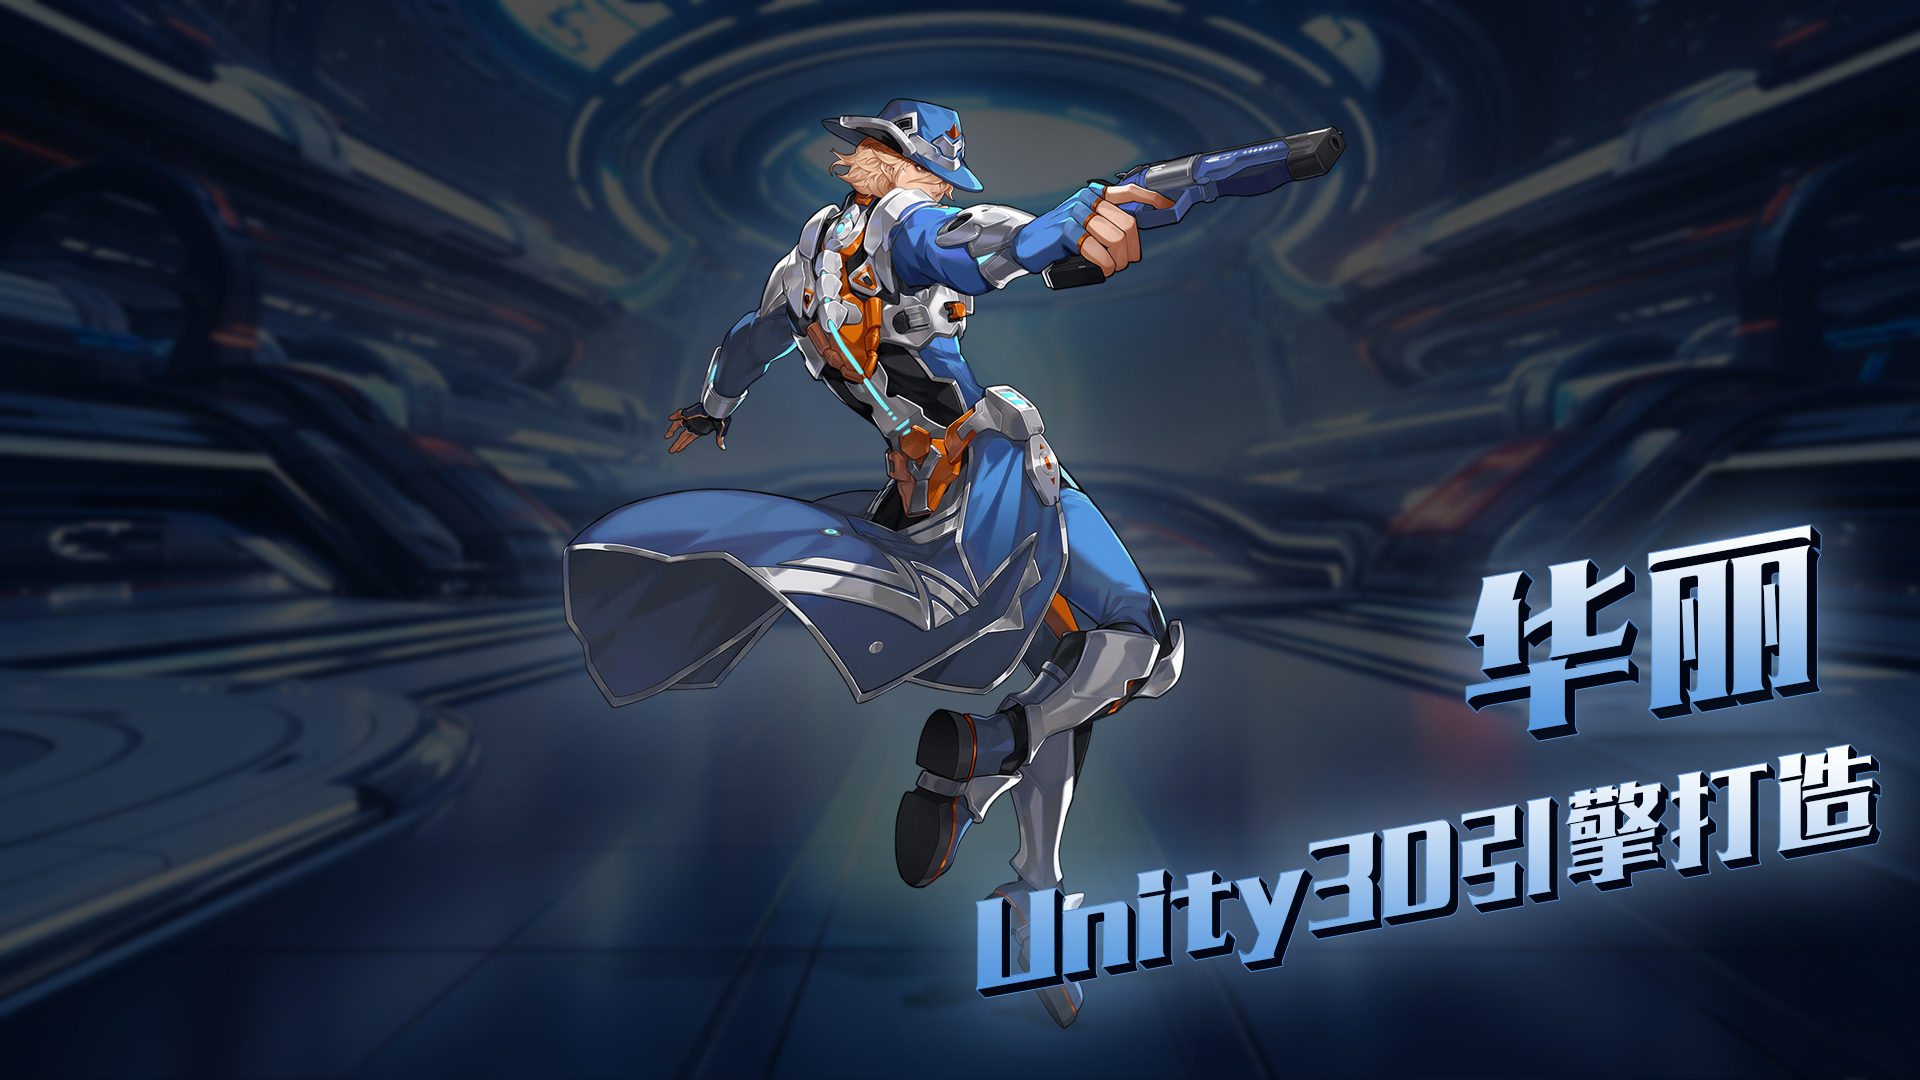
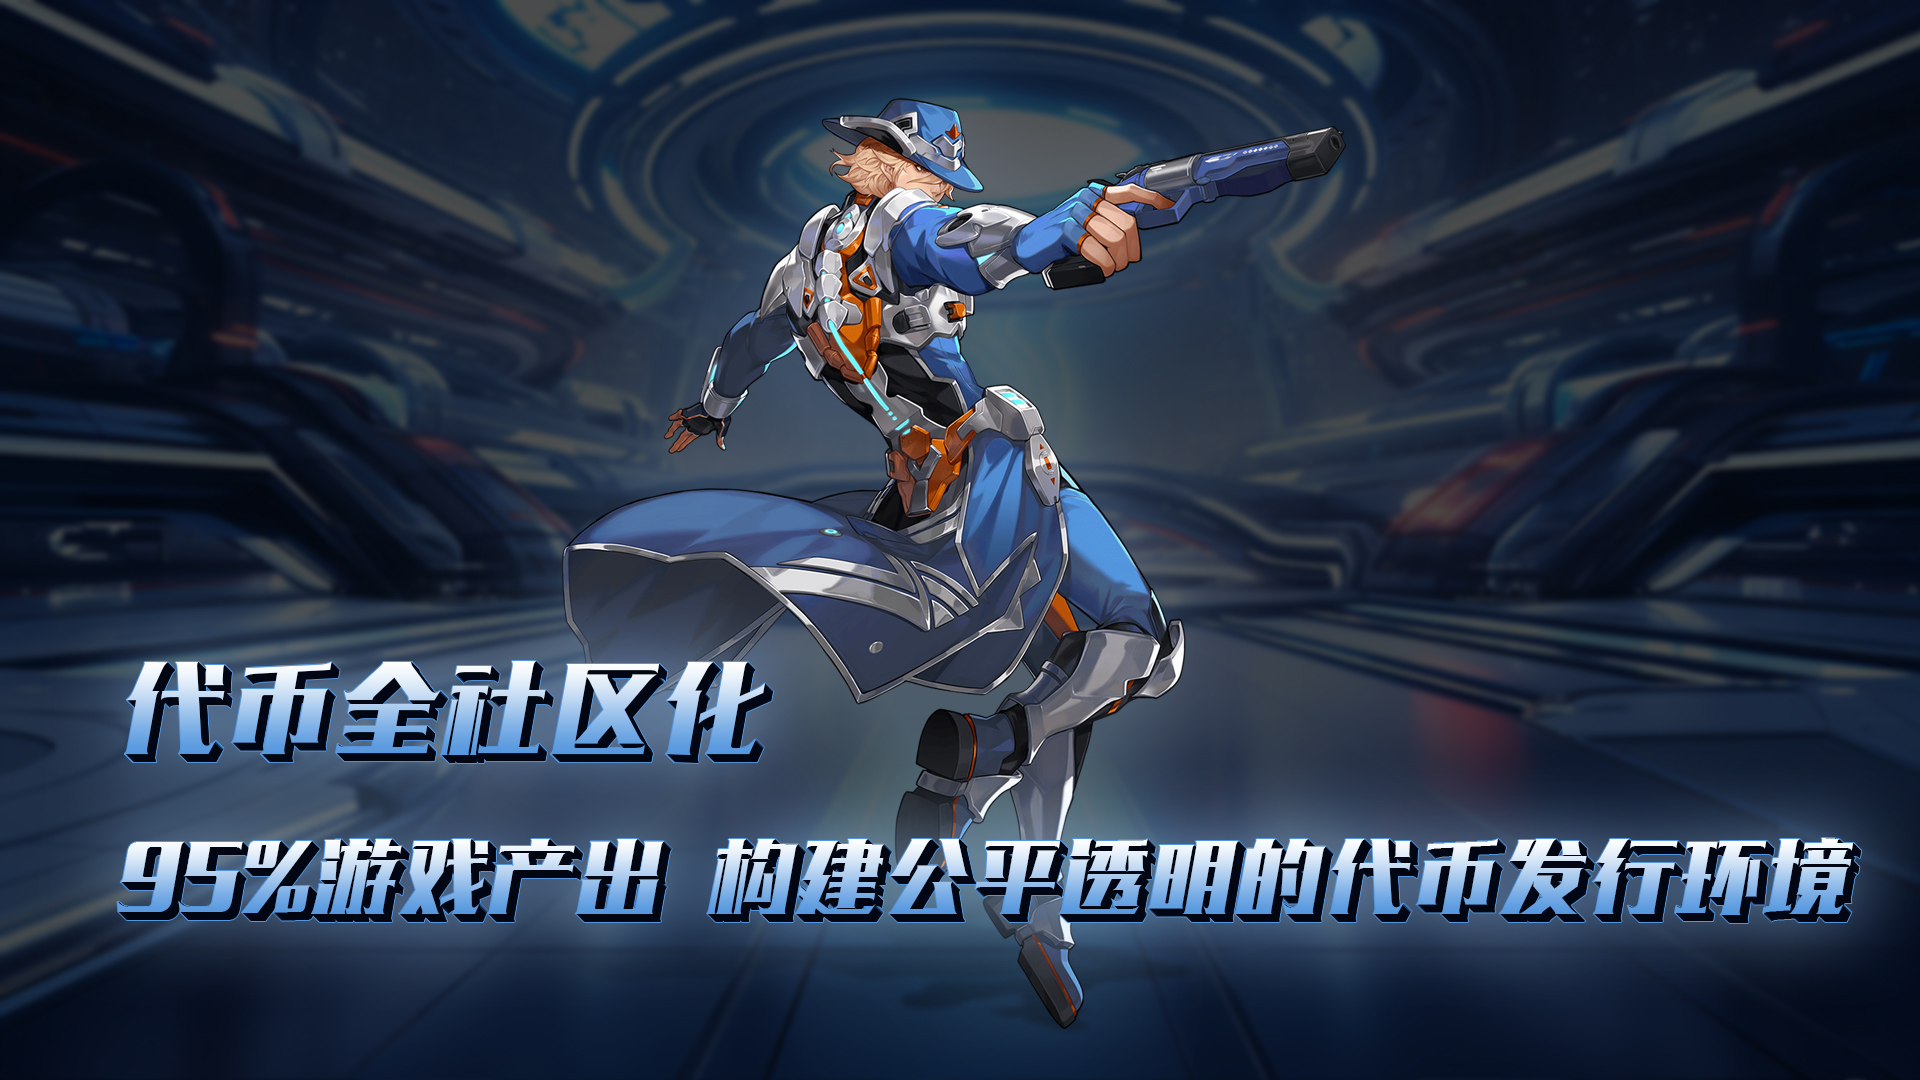
feat: detail

Changed region(s): [[0.0312, 0.4583, 1.0, 0.9472]]

diff --git a/carouselDetail.html b/carouselDetail.html
@@ -87,22 +87,91 @@
 
 </body>
 
-<script src="script.js"></script>
+<script>
+  // 菜单
+  document.addEventListener('DOMContentLoaded', () => {
+    const menuIcon = document.querySelector('.menu-icon');
+    const closeIcon = document.querySelector('.close-icon');
+    const menuContainer = document.querySelector('.menu-container');
+
+    menuIcon.addEventListener('click', function () {
+      menuContainer.classList.add('active');
+    });
+
+    closeIcon.addEventListener('click', function () {
+      menuContainer.classList.remove('active');
+    });
+  });
+</script>
 <script>
   function getUrlParameter(name) {
     const params = new URLSearchParams(window.location.search);
     return params.get(name);
   }
-  document.addEventListener('DOMContentLoaded', () => {
-    // 获取 id 参数
-    const id = getUrlParameter('id');
 
+  document.addEventListener('DOMContentLoaded', () => {
+    const id = getUrlParameter('id');
     const carouselDetail = document.getElementById('carouselDetail');
 
-    if (id) {
-      carouselDetail.textContent = id;
+    const contents = {
+      '4': {
+        image: 'assets/npc_4.jpg',
+        title: 'DriveCore社区驱动系统',
+        content: `
+          <p>以赛亚首家推出的DriveCore驱动系统，重新定义了区块链游戏中玩家与工会的关系。通过该系统，每位玩家加入工会后，战力将显著提升，而工会主则能够通过集结更多成员，获得来自每一位成员的战力加成。这种设计不仅强化了个体与集体的成长，还让工会成为游戏生态系统中的核心力量，推动其繁荣。
+这种创新机制通过公平的激励模式，为玩家提供了一个互利的社区环境，进一步推动了工会文化的发展。DriveCore系统不仅让玩家间的合作变得更具价值，同时也带来了一个真正去中心化的、合作共赢的区块链游戏新纪元。
+</p>
+          <p>以塞亚驱动：引领链游工作室大规模崛起
+以赛亚通过其创新的DriveCore驱动系统，致力于帮助链游工作室实现发展和普及。这一系统不仅为玩家提供了更具吸引力的游戏体验，同时也为游戏工作室创造了可持续的生态环境。通过激励玩家积极参与和协作，DriveCore系统推动了工会文化的普及，从而增强了玩家的忠诚度与社区活力。
+借助这一驱动力系统，链游工作室将能够更高效地吸引和留住大量用户，推动用户群体的大规模突破。这种机制为工作室提供了强大的增长工具，使其在区块链游戏市场中获得更广泛的覆盖，最终实现链游工作室的普遍化和市场领先地位。
+</p>`
+      },
+      '1': {
+        image: 'assets/npc_1.jpg',
+        title: '代币经济模型（总量10亿枚）',
+        content: `
+          <p>ISA代币经济：精准发行，确保长期可持续性</p>
+          <p>95%代币通过销毁池发行：所有代币的发行都依托于智能合约控制的销毁池机制，根据市场需求动态调整发行量。玩家代币进入游戏销毁80%的代币，系统根据销毁池总量精准发行0.8%-1.5%的新代币，保障代币的稀缺性和市场供需平衡，杜绝滥发。</p>
+          <p>玩家主导的代币销毁机制：玩家进入游戏时，80%的代币将被销毁。这个过程推动了代币的循环发行，确保真正为游戏生态贡献的玩家能够影响代币供应，建立了公平透明的用户驱动型经济体系。</p>
+          <p>无私募，无预挖：所有代币通过公开市场和游戏内发行，所有玩家都站在同一起跑线。项目没有私募或预挖，代币流通完全依赖市场和玩家的真实行为，充分体现去中心化理念。</p>
+        `
+      },
+      '2': {
+        image: 'assets/npc_2.jpg',
+        title: '每日代币分配规则',
+        content: `
+          <p>根据游戏玩家战斗值加权分配当天发行代币（公会主能够得到整体公会游戏玩家10%战斗力加成，直接邀请人能得到游戏玩家15%战斗力加成）。</p>
+          <p>游戏玩家需要从交易所购买代币充值到平台，购买装备，升级强化装备，购买门票等。所有玩家在游戏中消耗的代币：80%直接打入销毁池，10%游戏开发运营，5%公会排行榜奖励（前20名公会即可获得每天消耗代币的奖励，激励公会与公会之间形成竞争达到二次氪金效应），2%个人排行榜奖励（前20名个人战力值获得奖励，激励更多氪金玩家冲榜，促使高氪金玩家基数增加），3%项目基金储备(打造平台合作，生态建设)。</p>
+</p>      `
+      },
+      '3': {
+        image: 'assets/npc_3.jpg',
+        title: 'NFT发行与经济模型',
+        content: `
+          <p>NFT穿戴与高级副本：开创玩家主导的链游经济</p>
+          <p>以赛亚打破传统项目方控制NFT发行的模式，将NFT获取的权力完全交给玩家，通过游戏行为创造和分发新NFT：</p>
+          <p>首发3000套初始NFT：初始NFT不仅是进入游戏的门票，还拥有稀缺性和增值潜力。持有者能够进入高级副本，并通过战斗打出后续玩家所需的NFT，形成早期参与者的独特收益渠道。</p>
+          <p>玩家主导的NFT生成：后续新玩家所需的NFT均由初始NFT持有者通过高级副本获取，建立了一个由玩家推动的健康市场，避免了NFT的市场投机和供应失衡问题。</p>
+          <p>这种NFT机制确保了NFT供应的动态调节，同时为早期持有者带来了持续收益机会</p>
+        `
+      }
+    };
+
+    if (id && contents[id]) {
+      const content = contents[id];
+      carouselDetail.innerHTML = `
+        <div class="detail-container">
+          <img src="${content.image}" alt="Detail Image" class="detail-image">
+          <div class="detail-content">
+            <h2>${content.title}</h2>
+            <div class="detail-text">
+              ${content.content}
+            </div>
+          </div>
+        </div>
+      `;
     }
-  })
+  });
 </script>
 
 </html>

diff --git a/style.css b/style.css
@@ -808,3 +808,44 @@
   height: auto;
   object-fit: contain;
 }
+
+.detail-container {
+  max-width: 1200px;
+  margin: 40px auto;
+  padding: 0 20px;
+}
+
+.detail-image {
+  width: 100%;
+  height: auto;
+  /* margin-bottom: 20px; */
+}
+
+.detail-content {
+  padding: 20px 0;
+}
+
+.detail-content h2 {
+  font-size: 24px;
+  margin-bottom: 20px;
+  color: #333;
+}
+
+.detail-text {
+  color: #666;
+  line-height: 1.6;
+}
+
+.detail-text p {
+  margin-bottom: 10px;
+}
+
+@media (max-width: 768px) {
+  .detail-container {
+    margin: 20px auto;
+  }
+
+  .detail-content h2 {
+    font-size: 20px;
+  }
+}

diff --git a/index.html b/index.html
@@ -135,7 +135,7 @@
       <div class="carousel-container-2">
         <div class="carousel-item-2">
           <div class="news-card">
-            <img src="assets/roadmap.jpg" alt="npc_1">
+            <img src="assets/roadmap.jpg" alt="roadmap">
             <div class="news-content">
               <h3>游戏路图</h3>
               <p>游戏路图介绍游戏路图介绍游戏路图介绍游戏路图介绍游戏路图介绍游戏路图介绍游戏路图介绍游戏路图介绍游戏路图介绍</p>
